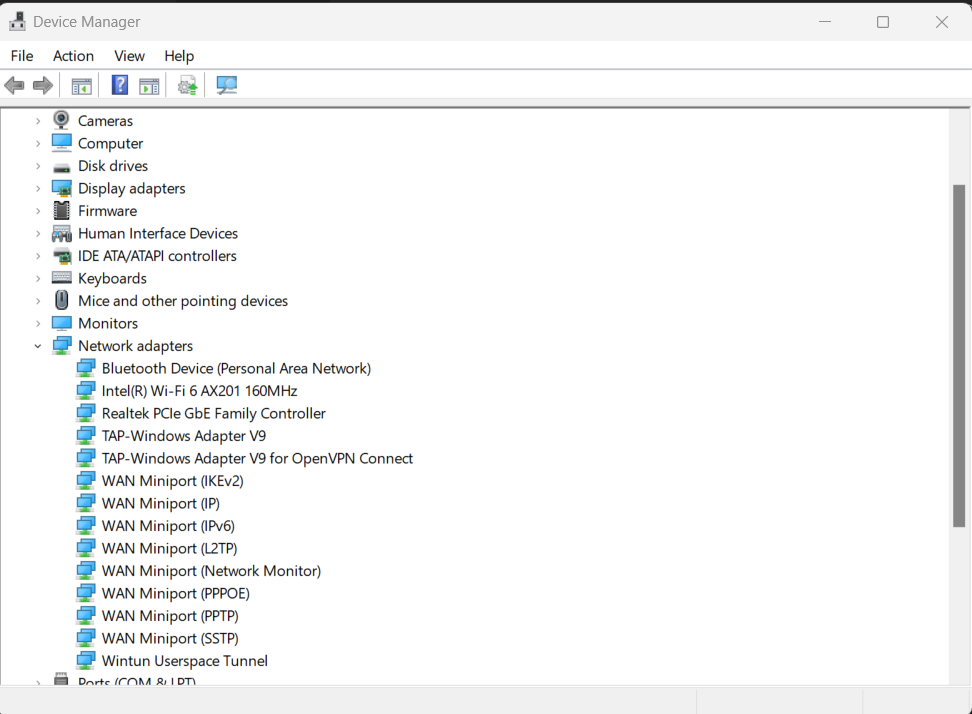
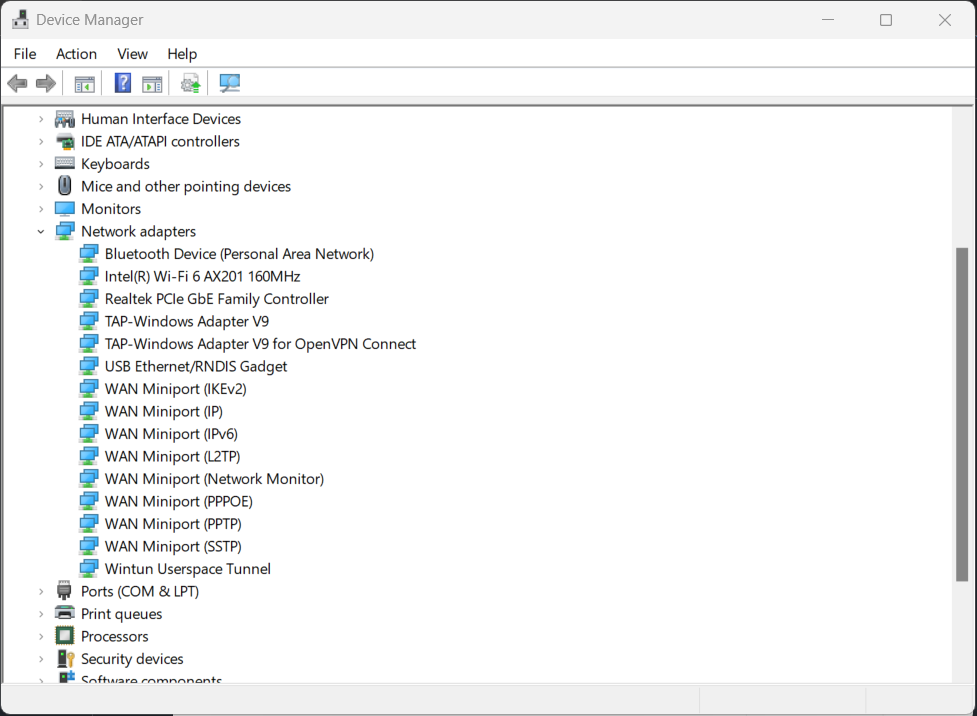
feat: add full instruction for setting ip driver

Changed region(s): [[0.0, 0.0, 1.0, 1.0]]

diff --git a/README.md b/README.md
@@ -122,6 +122,14 @@ Pada step kali ini IDE yang akan digunakan adalah sesuai saran dari pengembang l
 3. Atur Alamat IP koneksi (default `10.0.1.1`) untuk RNDIS melalui Device Manager
 
     Selanjutnya jika Driver sudah terpasang, silakan setup koneksi dengan mengatur IP Address dari EV3 Brick di pengaturan koneksi Driver nya melalui Device Manager.
+    
+    <img src="./assets/device-manager.png" alt="Device Manager" width="640"/>
+
+    Silakan klik 2 kali pada RNDIS Gadget atau klik kanan lalu pilih `Properties`. Akan muncul dialog Properties RNDIS Gadget, silakan pilih tab `Advanced`.
+    
+    <img src="./assets/setting-ip-driver.png" alt="Setting IP Driver" width="480"/>
+
+    Silakan atur input Value dengan Alamat IP koneksi (default `10.0.1.1`). Terakhir klik Ok.
 
 4. Atur Alamat IP koneksi (default `10.0.1.1`) di plugin Eclipse leJOS EV3 melalui menu Preferences
 
@@ -129,7 +137,7 @@ Pada step kali ini IDE yang akan digunakan adalah sesuai saran dari pengembang l
     
     <img src="./assets/windows-menu.png" alt="Windows Menu" width="320"/>
 
-    Akan muncul dialog Preferences, silakan pilh `leJOS EV3` (nama plugin yang telah kita pasang).
+    Akan muncul dialog Preferences, silakan pilih `leJOS EV3` (nama plugin yang telah kita pasang).
     
     <img src="./assets/preferences.png" alt="Preferences Menu" width="480"/>
 
